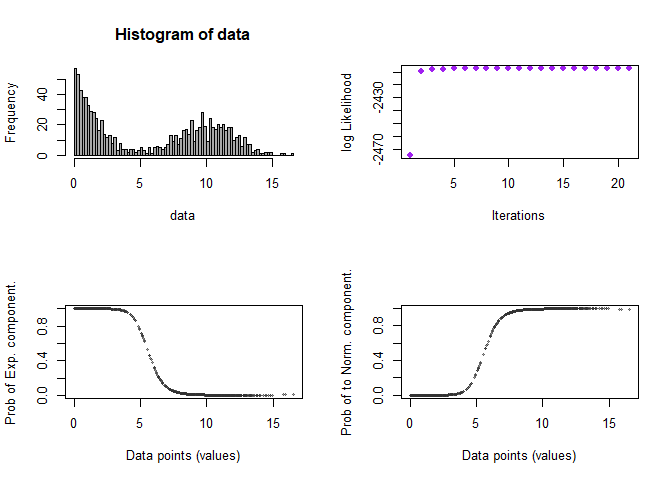
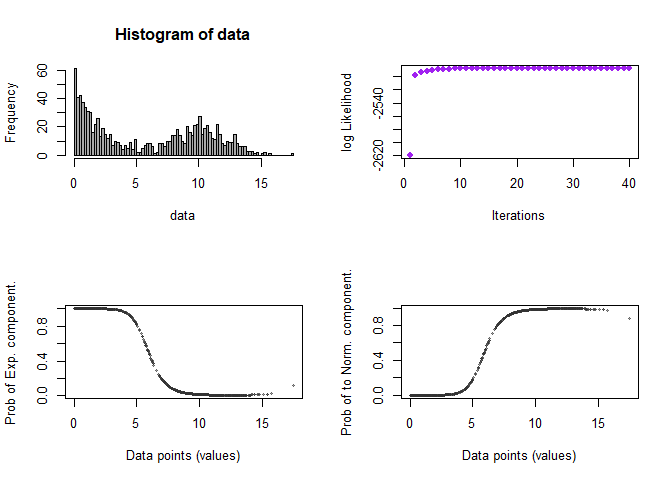
fixed readme, updated library

diff --git a/R/densmix/README.md b/R/densmix/README.md
@@ -21,7 +21,9 @@ You can install the development version of densmix from
 
 ``` r
 # install.packages("pak")
-pak::pak("agehsbargswork-blip/data-science")
+pak::pkg_install(
+  "densmix=github::agehsbargswork-blip/data-science/R/densmix"
+)
 ```
 
 ## Example: exp-normal density
@@ -69,7 +71,7 @@ gendata <- gen_em_mn(size = 1000,
 
 
 fitdata <- fit_multinomial(gendata$data, control = list(verbose = TRUE))
-#> [2KIter: 1 {"weights":[0.3333,0.3333,0.3333],"profiles_delta":8.38,"weights_delta":0.8813}[2KIter: 2 {"weights":[0.0695,0.1565,0.774],"profiles_delta":0.3747,"weights_delta":0.2064}[2KIter: 3 {"weights":[0.0946,0.186,0.7194],"profiles_delta":0.0279,"weights_delta":0.0182}[2KIter: 4 {"weights":[0.09,0.186,0.724],"profiles_delta":1.9777e-07,"weights_delta":1.1348e-07}
+#> [2KIter: 1 {"weights":[0.3333,0.3333,0.3333],"profiles_delta":0.0868,"weights_delta":0.8813}[2KIter: 2 {"weights":[0.0695,0.1565,0.774],"profiles_delta":0.0771,"weights_delta":0.2064}[2KIter: 3 {"weights":[0.0946,0.186,0.7194],"profiles_delta":0.0075,"weights_delta":0.0182}[2KIter: 4 {"weights":[0.09,0.186,0.724],"profiles_delta":3.6292e-08,"weights_delta":1.1348e-07}
 
 par(mfrow=c(3,3))
 for(i in 1:3){
